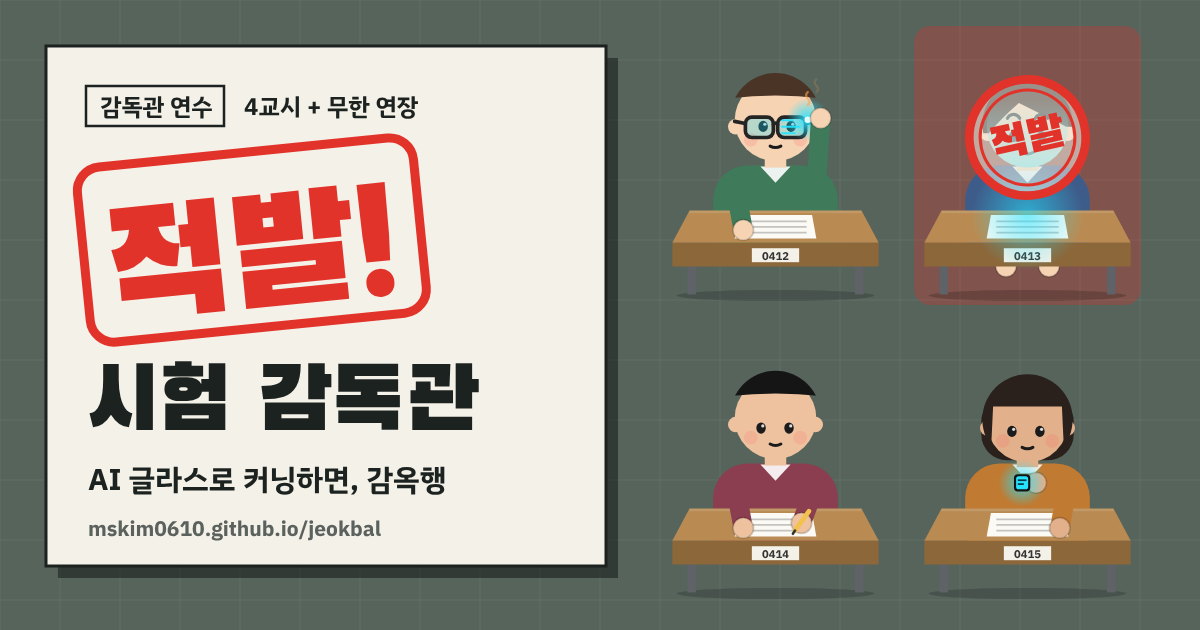
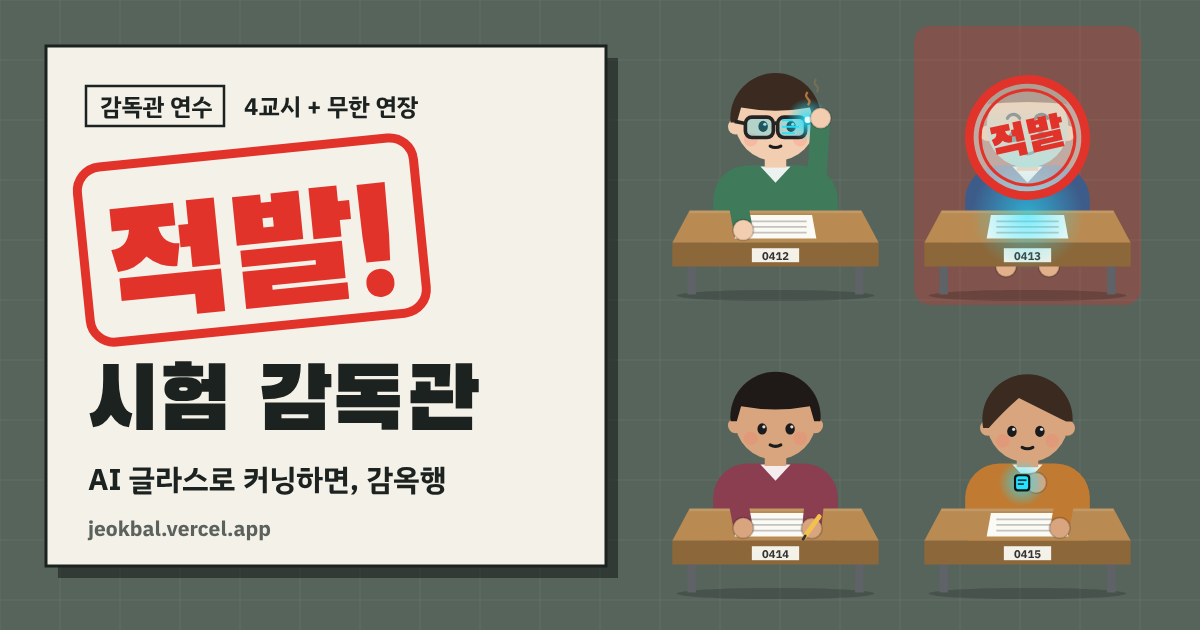
주소를 jeokbal.vercel.app으로 변경
- 공유 링크, 링크 미리보기 태그, 미리보기 이미지 속 주소를 새 주소로 교체

Claude-Session: https://claude.ai/code/session_01XunNqZWJxn7NXCmjAJ3Dkk

diff --git a/index.html b/index.html
@@ -15,8 +15,8 @@
 <meta property="og:site_name" content="적발! 시험 감독관">
 <meta property="og:title" content="적발! 시험 감독관">
 <meta property="og:description" content="AI 글라스로 커닝하는 수험생, 잡아서 감옥 보내기. 몇 교시까지 버틸 수 있을까?">
-<meta property="og:url" content="https://mskim0610.github.io/jeokbal/">
-<meta property="og:image" content="https://mskim0610.github.io/jeokbal/og.png">
+<meta property="og:url" content="https://jeokbal.vercel.app/">
+<meta property="og:image" content="https://jeokbal.vercel.app/og.png">
 <meta property="og:image:width" content="1200">
 <meta property="og:image:height" content="630">
 <meta property="og:locale" content="ko_KR">
@@ -352,7 +352,7 @@ function periodCfg(i){
     spawn: [Math.max(.38, .65 * Math.pow(.9, n)), Math.max(.6, 1.0 * Math.pow(.9, n))],
     pCheat: .55, cheatDur: Math.max(.75, 1.1 * Math.pow(.93, n)), maxCheat: Math.min(6, 3 + Math.floor(n / 2)) });
 }
-const SHARE_URL = 'https://mskim0610.github.io/jeokbal/';
+const SHARE_URL = 'https://jeokbal.vercel.app/';
 const WRONGED = ['억울해요!', '저요?!', '아닌데요?', '민원 넣을게요', '왜요?!'];
 
 const SKIN = ['#f6d3b3', '#eec29f', '#e2b08a', '#f3cdb0', '#d9a57e', '#f0c8a6'];

diff --git a/README.md b/README.md
@@ -2,7 +2,7 @@
 
 AI 글라스, 스마트워치, 휴대폰으로 커닝하는 수험생을 터치해서 감옥으로 보내는 캐주얼 웹 게임.
 
-플레이: https://mskim0610.github.io/jeokbal/
+플레이: https://jeokbal.vercel.app/
 
 - 1~4교시(각 20초): AI 글라스·휴대폰 → 스마트워치 → 옆자리 훔쳐보기 → 커닝페이퍼. 3교시부터 새 수법은 불빛 없음
 - 5교시부터: 불빛 없는 무한 연장 시험, 공정성이 0이 될 때까지
